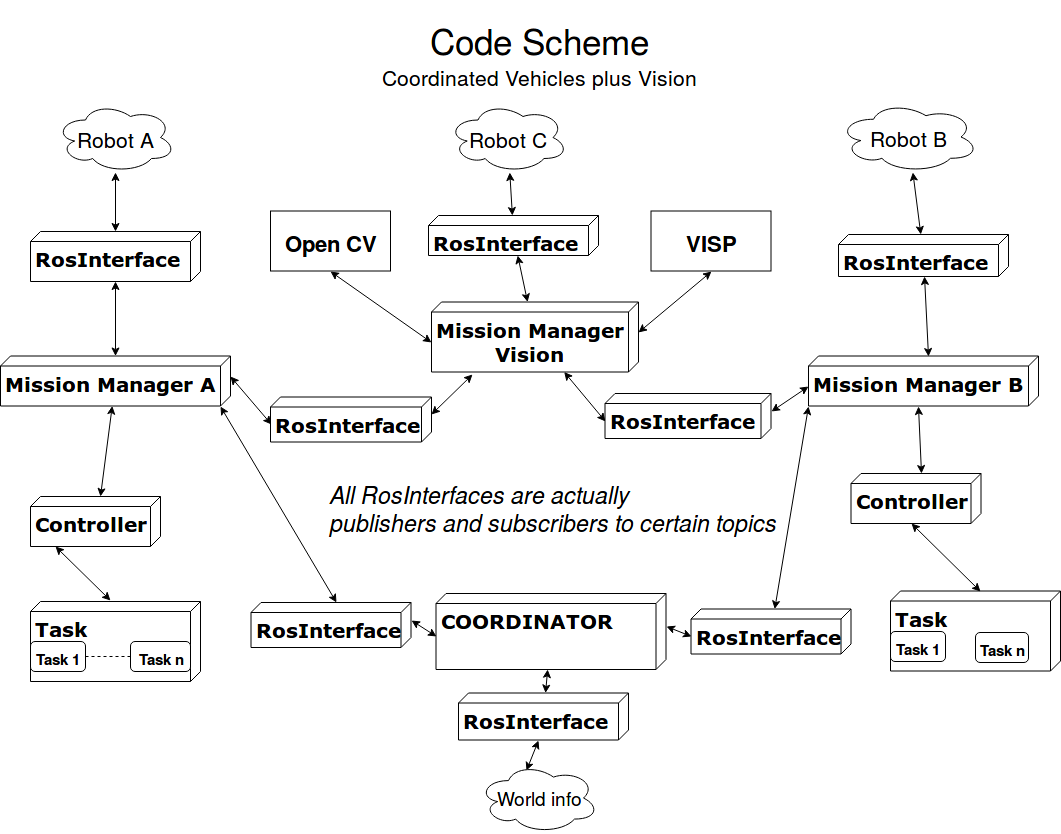
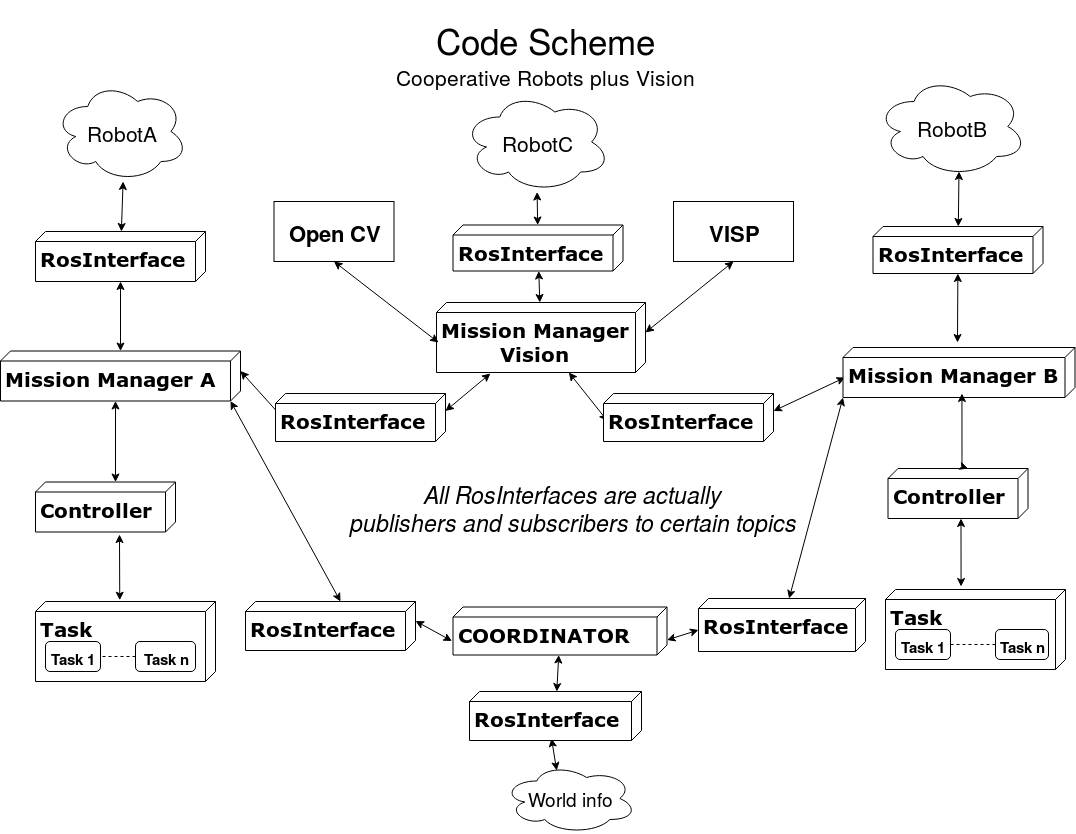
improved some images and some writings in MissManagerVision

diff --git a/src/peg/src/missionManagerVision.cpp b/src/peg/src/missionManagerVision.cpp
@@ -149,9 +149,9 @@ int main(int argc, char** argv){
   MonoTracker* monoTrackerR;
   StereoTracker* stereoTracker;
   std::map<std::string, vpHomogeneousMatrix> mapCameraTransf;
-  // note: here it must be putted the transf from RIGTH to LEFT and not viceversa
   mapCameraTransf[cameraNames.at(0)] = vpHomogeneousMatrix();  //identity
 
+  // note: here it must be putted the transf from RIGTH to LEFT and not viceversa
   if (!USE_DEPTH){
     mapCameraTransf[cameraNames.at(1)] =
       CONV::transfMatrix_eigen2visp(robVisInfo.robotStruct.cRTcL);
@@ -554,12 +554,3 @@ void append2Dto3Dfile(std::vector<cv::Point> found4CornersL, std::string sourceP
 
   return;
 }
-
-
-
-/**
-  Axis in the model are:
-  x going out of the plane
-  y pointing on the right
-  z go up in the plane
-  */
